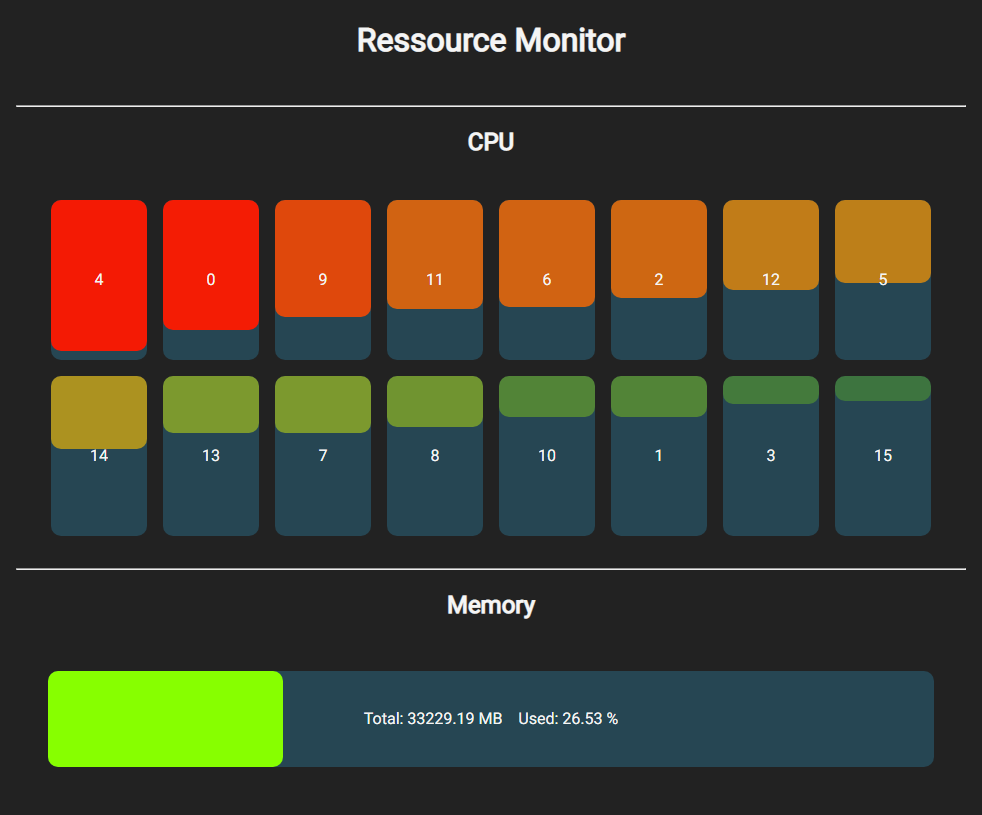
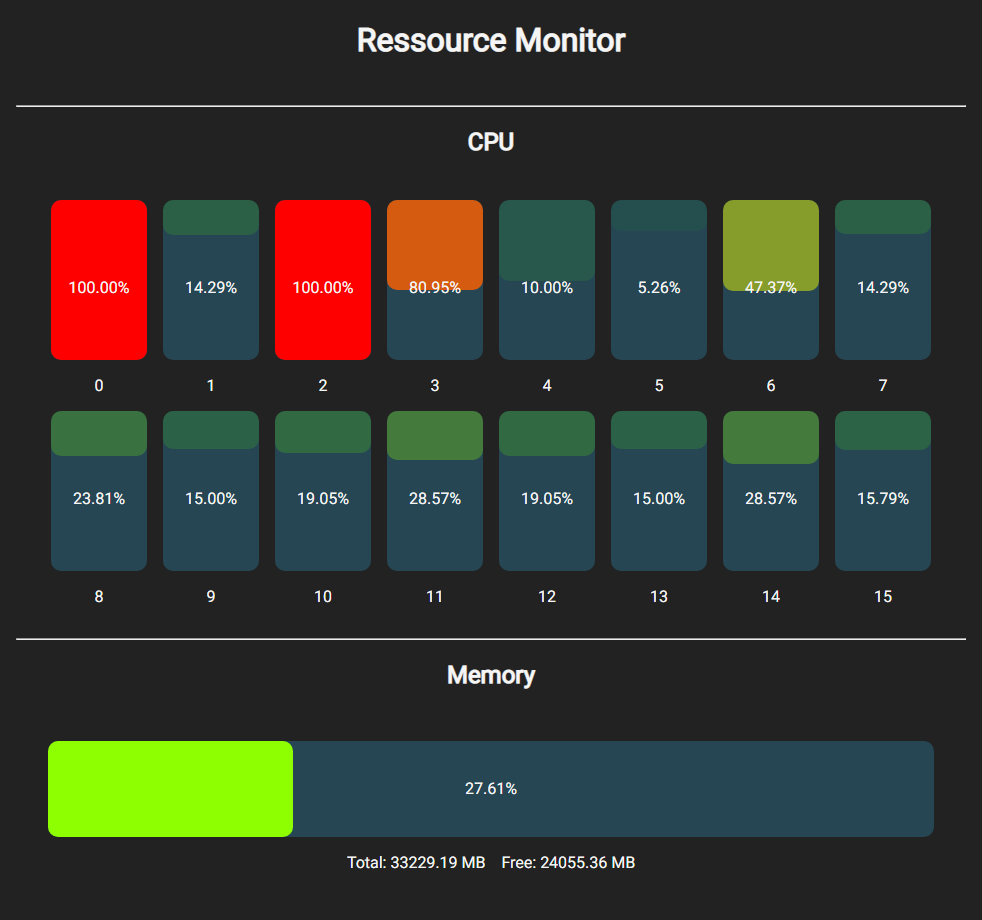
style: :art: Updated Memory Style

diff --git a/src/index.css b/src/index.css
@@ -15,6 +15,28 @@ body {
   color: #222222;
 }
 
+.full-bar label {
+  display: flex;
+  align-items: center;
+  justify-content: center;
+  padding-top: 1em;
+}
+
+.full-mem-bar {
+  width: 100%;
+}
+
+.full-mem-bar .mem-label {
+  display: flex;
+  align-items: center;
+  justify-content: center;
+  padding-top: 1em;
+}
+
+.full-mem-bar .mem-label label {
+  padding-inline: 0.5em;
+}
+
 .procs {
   display: flex;
   flex-flow: row wrap;
